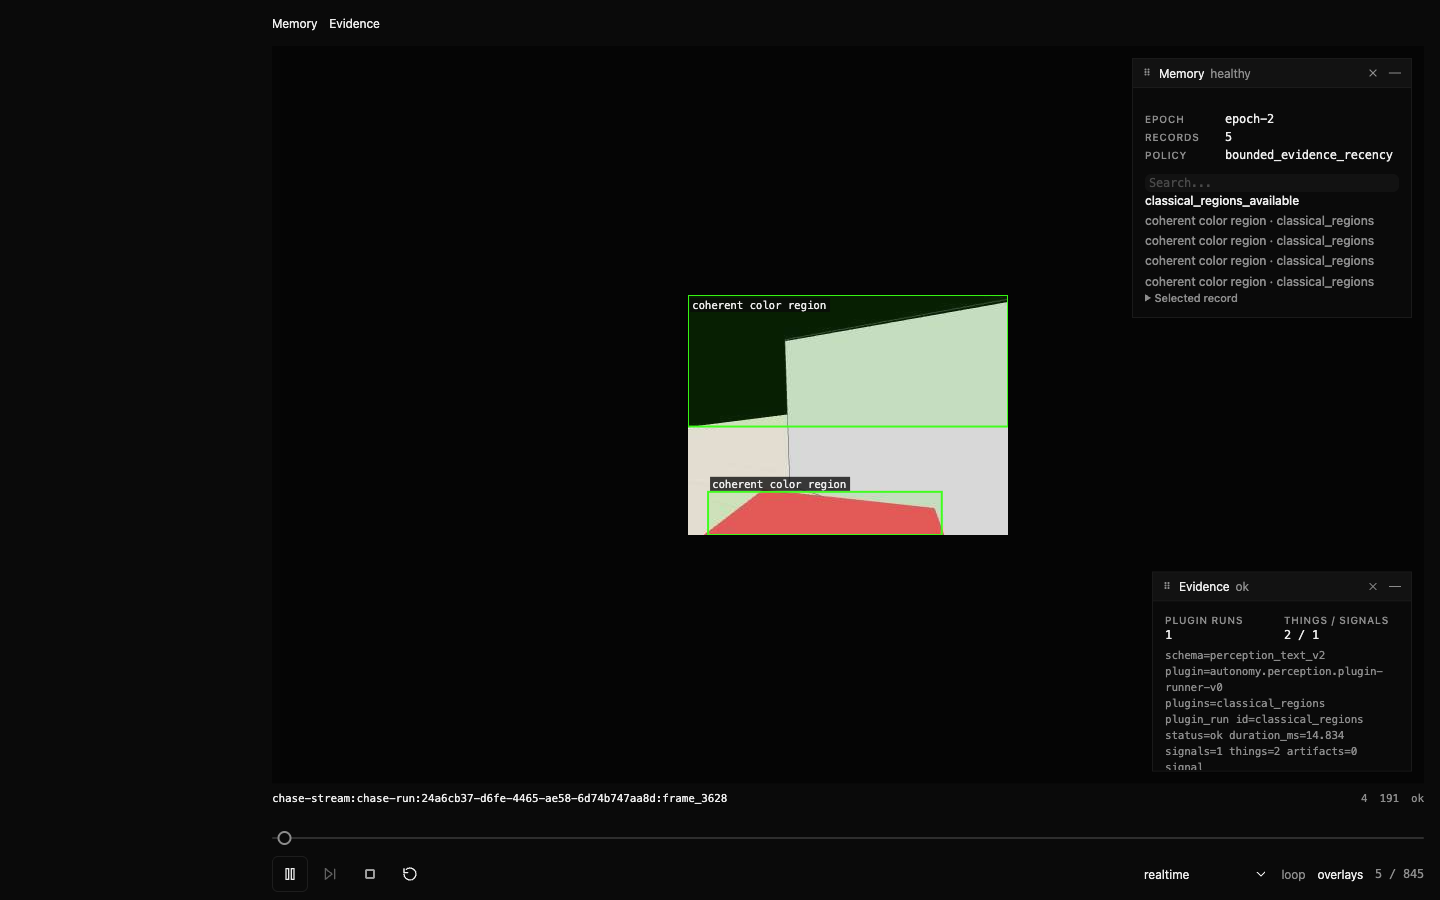
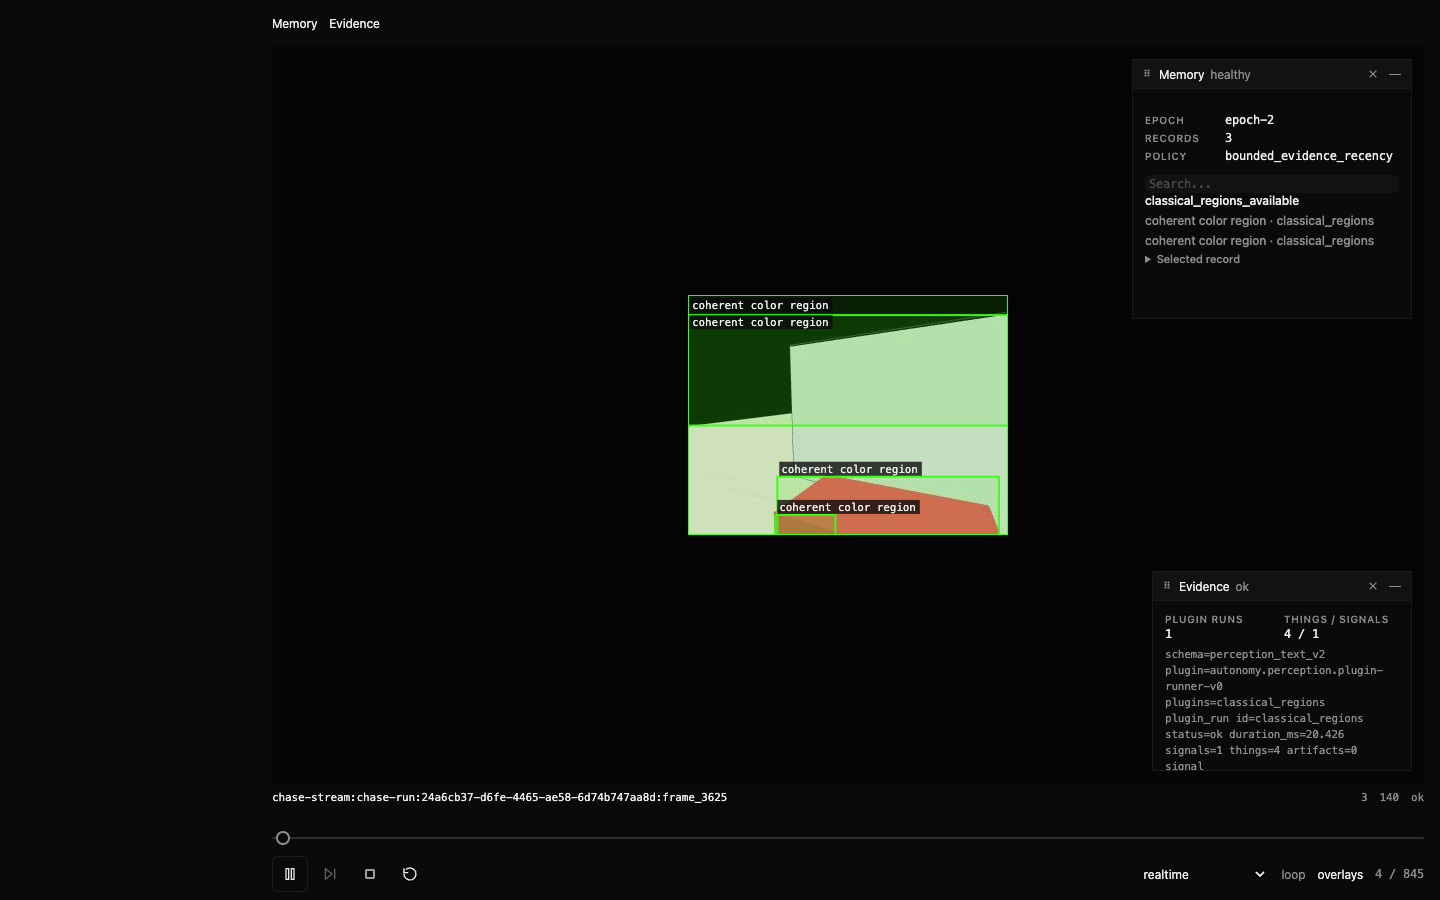
Rerun acceptance session with toggle transitions from a clean tree
Paused ready/empty/restore and running boundary/next-frame snapshots are
in the packet. Worktree was clean at session start. Distinct run ids and
failure-before-recovery remain. On-page run_id display stays a residual.

diff --git a/docs/milestones/008-cli-decision-workbench/evidence/replay-workbench-acceptance/result.html b/docs/milestones/008-cli-decision-workbench/evidence/replay-workbench-acceptance/result.html
@@ -25,7 +25,7 @@
   <h1>Replay workbench POC acceptance</h1>
   <p class="meta">
     status=<span class="badge">accepted</span>
-    · record digest=<code>484ef518913318fa76df42abc8f63271e4c4fb4a13a4652b057a6e0b708c85d3</code>
+    · record digest=<code>670050cb3acb54f82ec99f52b259d9ecfa50e6d27f47bf4db449af1ff4c94eab</code>
   </p>
   <div class="note">
     This page is derived from committed <code>result.json</code>.
@@ -37,20 +37,20 @@
     <tr><th>Operator</th><td>gluo</td></tr>
     <tr><th>Verdict</th><td>accepted</td></tr>
     <tr><th>Incomplete reason</th><td>null</td></tr>
-    <tr><th>Started</th><td>2026-09-04T00:52:44.452208Z</td></tr>
-    <tr><th>Ended</th><td>2026-09-04T00:54:25.560331Z</td></tr>
+    <tr><th>Started</th><td>2026-09-04T01:16:22.238118Z</td></tr>
+    <tr><th>Ended</th><td>2026-09-04T01:18:00.849056Z</td></tr>
     <tr><th>OS</th><td>macOS-26.6.2-arm64-arm-64bit</td></tr>
     <tr><th>Browser</th><td>Chrome 152.0.7977.76 headed</td></tr>
-    <tr><th>Commit</th><td><code>768458edda91082faa868128a9e1337f7d1d5562</code></td></tr>
-    <tr><th>Worktree</th><td>dirty</td></tr>
+    <tr><th>Commit</th><td><code>e3572d2c875d166efc2d6011384810169e3ce3cb</code></td></tr>
+    <tr><th>Worktree</th><td>clean</td></tr>
     <tr><th>Source</th><td>&lt;home&gt;/Projects/auto-driving/runtime/vehicles/chase-sim-chaser/bundle/runtime/automation/captures/chase-stream-decision-model-default-45s-20260901-230833</td></tr>
     <tr><th>Plugin root</th><td>&lt;repo&gt;/lab/plugins/perception</td></tr>
-    <tr><th>Loopback URL</th><td>http://127.0.0.1:50093/</td></tr>
-    <tr><th>Server identity</th><td><code>workbench-c5b968eb46d0</code></td></tr>
-    <tr><th>First run id</th><td><code>run-8c2b647c85954586b9b8e04ea7ef7c0c</code></td></tr>
-    <tr><th>Second run id</th><td><code>run-1e8262ef400e4a3f93269b1561692942</code></td></tr>
-    <tr><th>Failed run id</th><td><code>run-16266be033944c14a3988af516e19088</code></td></tr>
-    <tr><th>Recovered run id</th><td><code>run-9bfbad7f5b634756af7d3c5d216b78c1</code></td></tr>
+    <tr><th>Loopback URL</th><td>http://127.0.0.1:53043/</td></tr>
+    <tr><th>Server identity</th><td><code>workbench-2d29d6df9d2f</code></td></tr>
+    <tr><th>First run id</th><td><code>run-af702ee8f0974eabb15bb5bdfa4fff4f</code></td></tr>
+    <tr><th>Second run id</th><td><code>run-3fa4314708804bacbafe9675fff24037</code></td></tr>
+    <tr><th>Failed run id</th><td><code>run-0969dd4fc26d4f3e9ccd04d217c4d156</code></td></tr>
+    <tr><th>Recovered run id</th><td><code>run-614187c4db7e445294420fa5fc4022f2</code></td></tr>
     <tr><th>Inspect screenshot</th><td>captured=true redaction=observed_pass during=inspect_replay</td></tr>
   </table>
   <h2>Procedure steps</h2>
@@ -58,8 +58,8 @@
     <tr><th>Id</th><th>Status</th><th>Required</th><th>Observation</th><th>Notes</th></tr>
     <tr><td><code>page_open</code></td><td>observed_pass</td><td>Page shows source identity, plugin catalog, and declared next actions.</td><td>y</td><td>Playwright Chromium drove the page at operator request.</td></tr>
 <tr><td><code>inspect_replay</code></td><td>observed_pass</td><td>Ready-plugin replay shows capture, server overlays, progress, and memory on a processed frame.</td><td>y</td><td>Sidebar hidden for the crop so local paths are not in the PNG.</td></tr>
-<tr><td><code>paused_toggle</code></td><td>observed_pass</td><td>Paused toggle including empty raw-capture updates the held still from the server; invalid IDs are refused.</td><td>y</td><td>null</td></tr>
-<tr><td><code>running_toggle</code></td><td>observed_pass</td><td>Running toggle including empty keeps the current still until the next processed frame.</td><td>y</td><td>null</td></tr>
+<tr><td><code>paused_toggle</code></td><td>observed_pass</td><td>Paused toggle including empty raw-capture updates the held still from the server; invalid IDs are refused.</td><td>y</td><td>Sidebar hidden for the crop so local paths are not in the PNG.</td></tr>
+<tr><td><code>running_toggle</code></td><td>observed_pass</td><td>Running toggle including empty keeps the current still until the next processed frame.</td><td>y</td><td>Sidebar hidden for the crop so local paths are not in the PNG.</td></tr>
 <tr><td><code>second_run</code></td><td>observed_pass</td><td>Reset and a second run without restarting the server; prior run identity is not current success.</td><td>y</td><td>null</td></tr>
 <tr><td><code>source_failure</code></td><td>observed_pass</td><td>Empty, missing, or unsupported source names the failure and next action; recovery is an operator-chosen directory.</td><td>y</td><td>null</td></tr>
 <tr><td><code>cleanup</code></td><td>observed_pass</td><td>Cancel or reset with no worker, simulator, Metrics operation, movement, or recording; isolated state is reset.</td><td>y</td><td>null</td></tr>
@@ -77,11 +77,11 @@
   <h2>Artifacts</h2>
   <table>
     <tr><th>Path</th><th>Captured</th><th>SHA-256</th></tr>
-    <tr><td><code>README.md</code></td><td>true</td><td><code>374c081177a1a0e9a6cc95aa4fa49ee597c51b8813391a23bdd254466d23f3e0</code></td></tr>
+    <tr><td><code>README.md</code></td><td>true</td><td><code>3cd07a2bc41f37bc925580c5cf4f2140f929fc2166c4cdc1a7f07ec6f94508c5</code></td></tr>
 <tr><td><code>render_result.py</code></td><td>true</td><td><code>c2fd1d1704034b766e0939c4c54178979549c92005bf2c17c083ac27e2c88bdd</code></td></tr>
-<tr><td><code>record_session.py</code></td><td>true</td><td><code>a6d2df34b4a6473bb0b9e49d4217e7e649e268ad3dc9705fb2f12d38be34d33c</code></td></tr>
-<tr><td><code>browser-view.png</code></td><td>true</td><td><code>2eb899167ea4aa41a92f1817ea3fdd200d7912ca0d5d933440b51781552c3dc6</code></td></tr>
-<tr><td><code>cli-transcript.txt</code></td><td>true</td><td><code>e36977fa210f764781174abcea4f6c98194643a4fbc4a98b257f61e2843f23cc</code></td></tr>
+<tr><td><code>record_session.py</code></td><td>true</td><td><code>76eac77f523549c5f6eec69a0a6463ccbf02002087b5fffc743853dba82123c7</code></td></tr>
+<tr><td><code>browser-view.png</code></td><td>true</td><td><code>32d86e5b01149e070fce7fc4a7a460c3b931c85f4cb69b7ae5fa2e257bc36376</code></td></tr>
+<tr><td><code>cli-transcript.txt</code></td><td>true</td><td><code>5624201fde26d1be66a69453114bd966349969be5f6ca54af6c1bc5804b1450f</code></td></tr>
 <tr><td><code>result.html</code></td><td>true</td><td><code>null</code></td></tr>
 
   </table>

diff --git a/docs/milestones/008-cli-decision-workbench/evidence/replay-workbench-acceptance/README.md b/docs/milestones/008-cli-decision-workbench/evidence/replay-workbench-acceptance/README.md
@@ -17,27 +17,27 @@ Operator: `gluo`
 | Field | Value |
 | --- | --- |
 | Operator | `gluo` |
-| Started (UTC) | `2026-09-04T00:52:44.452208Z` |
-| Ended (UTC) | `2026-09-04T00:54:25.560331Z` |
+| Started (UTC) | `2026-09-04T01:16:22.238118Z` |
+| Ended (UTC) | `2026-09-04T01:18:00.849056Z` |
 | OS | `macOS-26.6.2-arm64-arm-64bit` |
 | Browser | `Chrome 152.0.7977.76 headed` |
-| auto-driving commit | `768458edda91082faa868128a9e1337f7d1d5562` |
-| Worktree | `dirty` |
+| auto-driving commit | `e3572d2c875d166efc2d6011384810169e3ce3cb` |
+| Worktree | `clean` |
 | Image source (redacted) | `<home>/Projects/auto-driving/runtime/vehicles/chase-sim-chaser/bundle/runtime/automation/captures/chase-stream-decision-model-default-45s-20260901-230833` |
 | Plugin root | `<repo>/lab/plugins/perception` |
-| Loopback URL | `http://127.0.0.1:50093/` |
-| Server identity | `workbench-c5b968eb46d0` |
-| First run id | `run-8c2b647c85954586b9b8e04ea7ef7c0c` |
-| Second run id | `run-1e8262ef400e4a3f93269b1561692942` |
-| Failed run id | `run-16266be033944c14a3988af516e19088` |
-| Recovered run id | `run-9bfbad7f5b634756af7d3c5d216b78c1` |
+| Loopback URL | `http://127.0.0.1:53043/` |
+| Server identity | `workbench-2d29d6df9d2f` |
+| First run id | `run-af702ee8f0974eabb15bb5bdfa4fff4f` |
+| Second run id | `run-3fa4314708804bacbafe9675fff24037` |
+| Failed run id | `run-0969dd4fc26d4f3e9ccd04d217c4d156` |
+| Recovered run id | `run-614187c4db7e445294420fa5fc4022f2` |
 
 ## Session checklist
 
-Recorded by `record_session.py` with Playwright Chrome driving the live page
-at the operator's request. Compact `/api/state` snapshots are the run-id
-source because the page does not display `run_id`. Copying those ids from the
-printed snapshot is the accepted identity method for this packet.
+Recorded by `record_session.py` from a clean checkout. Playwright Chrome drove
+the live page at the operator's request. Paused and running steps each have
+per-selection `/api/state` snapshots. Run ids come from those snapshots
+because the page does not display `run_id`.
 
 - [x] `page_open` — Page shows source identity, plugin catalog, and declared next actions.
 - [x] `inspect_replay` — Ready-plugin replay shows capture, server overlays, progress, and memory on a processed frame.
@@ -68,7 +68,7 @@ captured=`True`, path_redaction=`observed_pass`.
 - The workbench page does not display `run_id`. That is an
   `enhancement_candidate` residual, not a blocker. After identity steps the
   recorder prints a compact `/api/state` snapshot and asks for the run id
-  from that snapshot (or `http://127.0.0.1:50093/api/state`).
+  from that snapshot (or `http://127.0.0.1:53043/api/state`).
   Surfacing current run identity on the page would avoid that side channel;
   it is out of this evidence PR.
 - `accepted` requires distinct first, second, failed, and recovered run IDs
